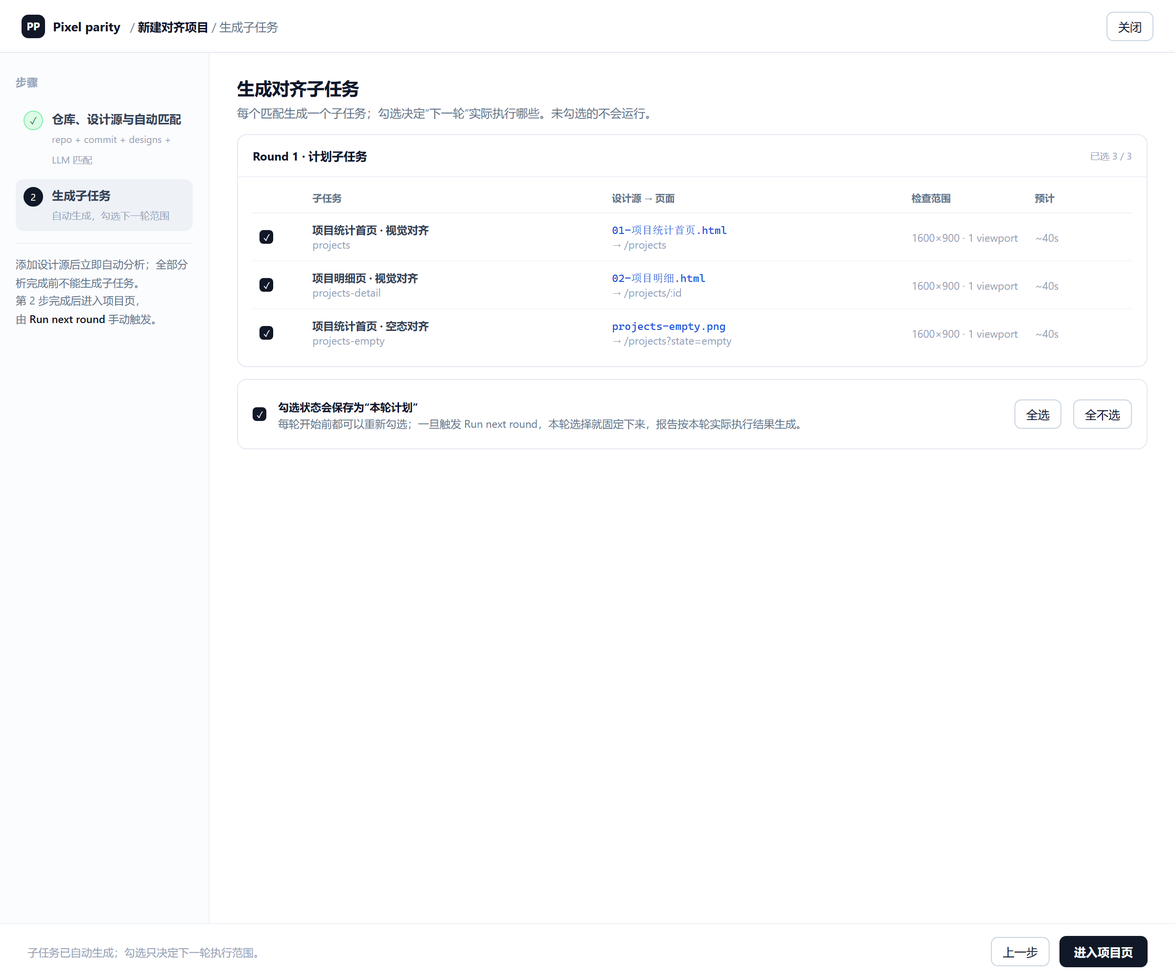
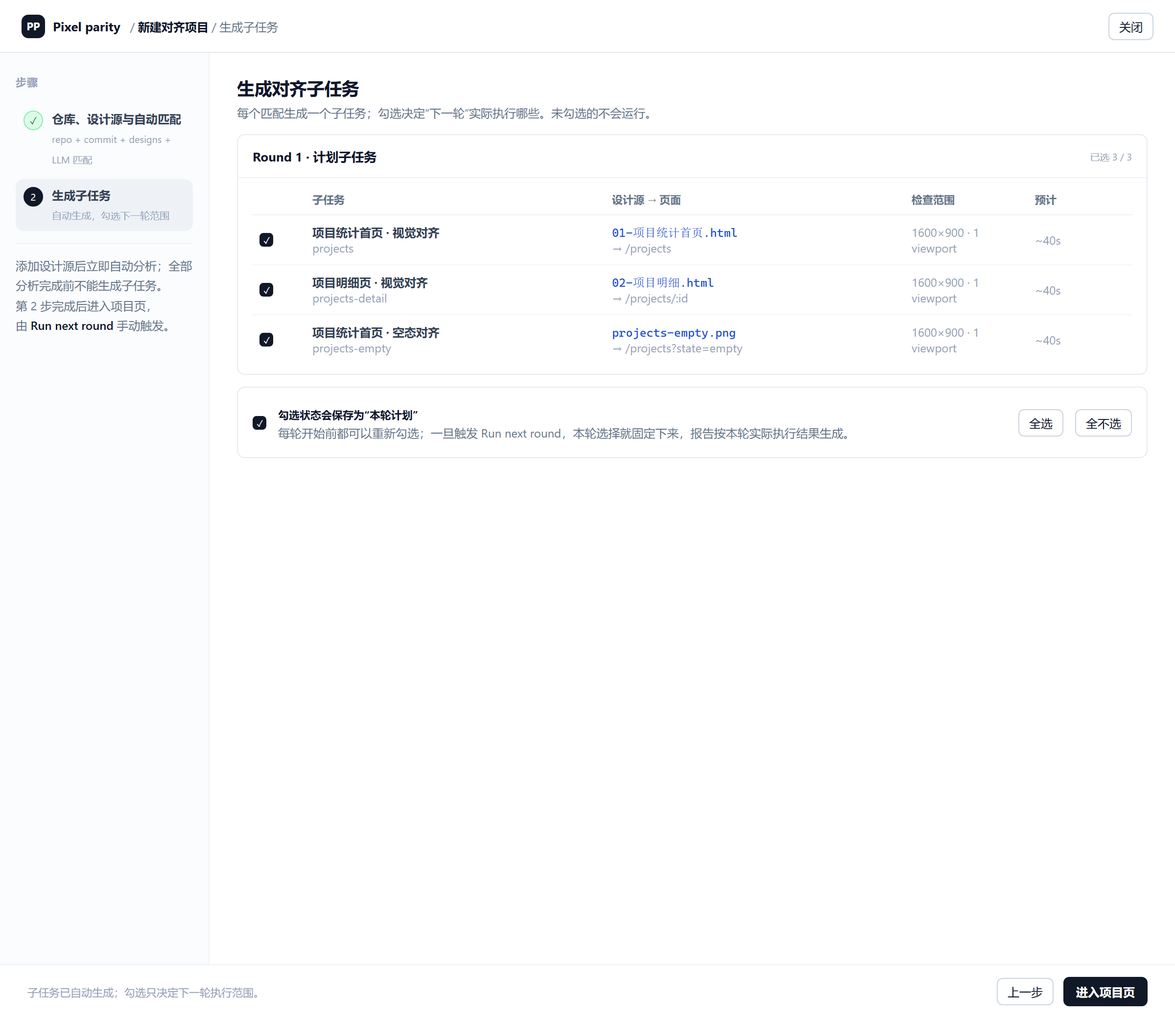
docs: fix report surface and align control metrics with DSH

diff --git a/docs/design/mockups/04-report.html b/docs/design/mockups/04-report.html
@@ -1,15 +1,15 @@
 <!doctype html><html><head><meta charset="utf-8"><style>
 * { box-sizing: border-box; }
 body { margin: 0; background: #eef2f7; color: #0f172a; font-family: Inter, "Segoe UI", "Microsoft YaHei", sans-serif; }
-.shell { width: 1200px; min-height: 1000px; background: #fff; display: flex; flex-direction: column; }
+.shell { width: 1200px; min-height: 1040px; background: #fff; display: flex; flex-direction: column; }
 .topbar { height: 54px; border-bottom: 1px solid #e5eaf1; display: flex; align-items: center; gap: 10px; padding: 0 22px; background: #fff; }
 .brand { display: flex; align-items: center; gap: 8px; font-weight: 650; font-size: 13px; color: #0f172a; }
 .mark { width: 24px; height: 24px; border-radius: 7px; background: #111827; color: #fff; display: grid; place-items: center; font-size: 11px; font-weight: 700; }
 .crumb { color: #64748b; font-size: 12px; }
 .crumb b { color: #0f172a; font-weight: 600; }
 .spacer { flex: 1; }
-.ghost { border: 1px solid #cbd5e1; background: #fff; color: #0f172a; border-radius: 7px; padding: 6px 11px; font-size: 12px; }
-.primary { border: 1px solid #111827; background: #111827; color: #fff; border-radius: 7px; padding: 7px 14px; font-size: 12px; font-weight: 600; }
+.ghost { border: 1px solid #cbd5e1; background: #fff; color: #0f172a; border-radius: 6px; padding: 5px 10px; font-size: 12px; }
+.primary { border: 1px solid #111827; background: #111827; color: #fff; border-radius: 6px; padding: 6px 12px; font-size: 12px; font-weight: 600; }
 .primary[disabled] { background: #e2e8f0; border-color: #e2e8f0; color: #94a3b8; }
 .body { display: flex; flex: 1; }
 .rail { width: 214px; border-right: 1px solid #eef2f7; padding: 22px 16px; background: #fbfcfe; }
@@ -24,11 +24,11 @@ body { margin: 0; background: #eef2f7; color: #0f172a; font-family: Inter, "Sego
 .main { flex: 1; padding: 24px 28px; overflow: hidden; }
 .h1 { margin: 0; font-size: 18px; letter-spacing: -.01em; color: #0f172a; }
 .sub { margin: 5px 0 0; color: #64748b; font-size: 12px; }
-.card { border: 1px solid #e5eaf1; border-radius: 10px; background: #fff; }
+.card { border: 1px solid #e5eaf1; border-radius: 8px; background: #fff; }
 .card-h { padding: 13px 15px; border-bottom: 1px solid #eef2f7; display: flex; align-items: center; gap: 8px; }
 .card-b { padding: 15px; }
 .label { font-size: 11px; color: #64748b; margin-bottom: 5px; display: block; }
-.field { height: 34px; border: 1px solid #dbe3ee; border-radius: 7px; display: flex; align-items: center; padding: 0 10px; font-size: 12px; color: #0f172a; background: #fff; }
+.field { height: 32px; border: 1px solid #dbe3ee; border-radius: 7px; display: flex; align-items: center; padding: 0 10px; font-size: 12px; color: #0f172a; background: #fff; }
 .field.mono { font-family: "Cascadia Code", Consolas, monospace; font-size: 11px; }
 .field .hint { margin-left: auto; color: #94a3b8; font-size: 10px; }
 .row { display: flex; gap: 12px; }
@@ -37,15 +37,15 @@ body { margin: 0; background: #eef2f7; color: #0f172a; font-family: Inter, "Sego
 .src .kind { width: 30px; height: 26px; border-radius: 6px; display: grid; place-items: center; font-size: 9px; font-weight: 700; }
 .kind.url { background: #eef2f7; color: #111827; }
 .kind.file { background: #f1f5f9; color: #334155; }
-.src div p { margin: 0; font-size: 11px; color: #1e293b; font-family: "Cascadia Code", Consolas, monospace; }
+.src div p { margin: 0; font-size: 12px; color: #1e293b; font-family: "Cascadia Code", Consolas, monospace; }
 .src div small { color: #94a3b8; font-size: 10px; }
 .x { margin-left: auto; color: #94a3b8; font-size: 14px; }
 .add { display: flex; gap: 8px; margin-top: 9px; }
 .addbtn { border: 1px dashed #c7d4e5; color: #111827; background: #fbfdff; border-radius: 7px; padding: 6px 10px; font-size: 11px; }
 .footer { border-top: 1px solid #eef2f7; padding: 12px 28px; display: flex; align-items: center; gap: 10px; background: #fff; }
 .footer .note { color: #94a3b8; font-size: 11px; }
-table { width: 100%; border-collapse: collapse; font-size: 11px; }
-th { text-align: left; color: #64748b; font-weight: 600; padding: 8px 8px; border-bottom: 1px solid #eef2f7; font-size: 10px; }
+table { width: 100%; border-collapse: collapse; font-size: 12px; }
+th { text-align: left; color: #64748b; font-weight: 600; padding: 8px 8px; border-bottom: 1px solid #eef2f7; font-size: 11px; }
 td { padding: 9px 8px; border-bottom: 1px solid #f4f7fb; vertical-align: middle; color: #334155; }
 tr:last-child td { border-bottom: none; }
 .pill { border-radius: 999px; padding: 2px 7px; font-size: 10px; font-weight: 600; display: inline-block; }
@@ -63,7 +63,7 @@ tr:last-child td { border-bottom: none; }
 .meta { display: flex; gap: 6px; flex-wrap: wrap; }
 .chip { border: 1px solid #e2e8f0; background: #f8fafc; color: #475569; border-radius: 999px; padding: 3px 9px; font-size: 10px; }
 .chip.blue { background: #eef2f7; border-color: #d6dde8; color: #111827; }
-.round { border: 1px solid #e5eaf1; border-radius: 10px; padding: 13px 14px; margin-bottom: 10px; background: #fff; }
+.round { border: 1px solid #e5eaf1; border-radius: 8px; padding: 13px 14px; margin-bottom: 10px; background: #fff; }
 .round.now { border-color: #111827; box-shadow: 0 0 0 3px #eef2f7; }
 .round-h { display: flex; align-items: center; gap: 8px; }
 .round-h b { font-size: 12px; color: #0f172a; }
@@ -75,7 +75,7 @@ tr:last-child td { border-bottom: none; }
 .split { display: flex; gap: 18px; }
 .col { flex: 1; }
 .big { font-size: 22px; font-weight: 700; letter-spacing: -.02em; color: #0f172a; }
-.kv { font-size: 11px; color: #64748b; line-height: 1.7; }
+.kv { font-size: 12px; color: #64748b; line-height: 1.7; }
 .kv b { color: #0f172a; font-weight: 600; }
 .empty { border: 1px dashed #d8e0ea; border-radius: 9px; padding: 16px; color: #94a3b8; font-size: 11px; text-align: center; }
 .hr { height: 1px; background: #eef2f7; margin: 12px 0; }
@@ -86,7 +86,7 @@ tr:last-child td { border-bottom: none; }
     <span class="crumb">/ anubis / 2026-11-23T12:54</span>
     <span class="spacer"></span><button class="ghost">Download</button><button class="ghost">关闭</button>
   </div>
-  <div class="main" style="padding:22px 30px;background:#0b0f14">
+  <div class="main" style="padding:22px 30px;background:#f7f8fa">
     <div style="display:flex;gap:24px;align-items:flex-start">
       <div style="flex:1">
         <h2 style="margin:0;font-size:16px">Round 1 对齐报告</h2>
@@ -99,20 +99,20 @@ tr:last-child td { border-bottom: none; }
     <div class="card" style="margin-top:14px"><div class="card-b" style="display:flex;gap:16px">
       <div class="thumb" style="width:160px;height:92px"></div>
       <div style="flex:1">
-        <div style="display:flex;gap:8px;align-items:center"><b style="font-size:12px">项目统计首页 · /projects</b><span class="pill bad">failed</span><span class="pill">9.26% pixels</span></div>
+        <div style="display:flex;gap:8px;align-items:center"><b style="font-size:13px">项目统计首页 · /projects</b><span class="pill bad">failed</span><span class="pill">9.26% pixels</span></div>
         <div class="kv" style="margin-top:5px">几何 pass · 样式 pass · 像素差异集中在“良率对比”条形图区域；表格列宽与原型存在偏差。</div>
         <div style="margin-top:8px;display:flex;gap:8px"><span class="chip">[structure] 良率对比条形图</span><span class="chip">[mock] 数据条数差异</span></div>
       </div>
       <button class="ghost" style="align-self:center">查看 diff</button>
     </div></div>
     <div class="card" style="margin-top:10px"><div class="card-b" style="display:flex;gap:16px">
-      <div class="thumb" style="width:160px;height:92px;background:linear-gradient(135deg,#162338,#1b2a44)"></div>
+      <div class="thumb" style="width:160px;height:92px;background:linear-gradient(135deg,#f8fafc 0 50%,#eef2f7 50% 100%)"></div>
       <div style="flex:1">
-        <div style="display:flex;gap:8px;align-items:center"><b style="font-size:12px">项目明细页 · /projects/:id</b><span class="pill ok">passed</span><span class="pill">0.00% pixels</span></div>
+        <div style="display:flex;gap:8px;align-items:center"><b style="font-size:13px">项目明细页 · /projects/:id</b><span class="pill ok">passed</span><span class="pill">0.00% pixels</span></div>
         <div class="kv" style="margin-top:5px">几何/样式/像素均通过，已可作为 baseline。</div>
       </div>
     </div></div>
-    <div class="card" style="margin-top:10px"><div class="card-h"><b style="font-size:12px">下一步</b></div><div class="card-b">
+    <div class="card" style="margin-top:10px"><div class="card-h"><b style="font-size:13px">下一步</b></div><div class="card-b">
       <div class="kv">1. 修复良率对比条形图的布局与数据条数；2. 重新勾选 Round 2 子任务；3. 手动触发 Run next round。</div>
     </div></div>
   </div>

diff --git a/docs/design/mockups/01-setup.html b/docs/design/mockups/01-setup.html
@@ -1,15 +1,15 @@
 <!doctype html><html><head><meta charset="utf-8"><style>
 * { box-sizing: border-box; }
 body { margin: 0; background: #eef2f7; color: #0f172a; font-family: Inter, "Segoe UI", "Microsoft YaHei", sans-serif; }
-.shell { width: 1200px; min-height: 1000px; background: #fff; display: flex; flex-direction: column; }
+.shell { width: 1200px; min-height: 1040px; background: #fff; display: flex; flex-direction: column; }
 .topbar { height: 54px; border-bottom: 1px solid #e5eaf1; display: flex; align-items: center; gap: 10px; padding: 0 22px; background: #fff; }
 .brand { display: flex; align-items: center; gap: 8px; font-weight: 650; font-size: 13px; color: #0f172a; }
 .mark { width: 24px; height: 24px; border-radius: 7px; background: #111827; color: #fff; display: grid; place-items: center; font-size: 11px; font-weight: 700; }
 .crumb { color: #64748b; font-size: 12px; }
 .crumb b { color: #0f172a; font-weight: 600; }
 .spacer { flex: 1; }
-.ghost { border: 1px solid #cbd5e1; background: #fff; color: #0f172a; border-radius: 7px; padding: 6px 11px; font-size: 12px; }
-.primary { border: 1px solid #111827; background: #111827; color: #fff; border-radius: 7px; padding: 7px 14px; font-size: 12px; font-weight: 600; }
+.ghost { border: 1px solid #cbd5e1; background: #fff; color: #0f172a; border-radius: 6px; padding: 5px 10px; font-size: 12px; }
+.primary { border: 1px solid #111827; background: #111827; color: #fff; border-radius: 6px; padding: 6px 12px; font-size: 12px; font-weight: 600; }
 .primary[disabled] { background: #e2e8f0; border-color: #e2e8f0; color: #94a3b8; }
 .body { display: flex; flex: 1; }
 .rail { width: 214px; border-right: 1px solid #eef2f7; padding: 22px 16px; background: #fbfcfe; }
@@ -24,11 +24,11 @@ body { margin: 0; background: #eef2f7; color: #0f172a; font-family: Inter, "Sego
 .main { flex: 1; padding: 24px 28px; overflow: hidden; }
 .h1 { margin: 0; font-size: 18px; letter-spacing: -.01em; color: #0f172a; }
 .sub { margin: 5px 0 0; color: #64748b; font-size: 12px; }
-.card { border: 1px solid #e5eaf1; border-radius: 10px; background: #fff; }
+.card { border: 1px solid #e5eaf1; border-radius: 8px; background: #fff; }
 .card-h { padding: 13px 15px; border-bottom: 1px solid #eef2f7; display: flex; align-items: center; gap: 8px; }
 .card-b { padding: 15px; }
 .label { font-size: 11px; color: #64748b; margin-bottom: 5px; display: block; }
-.field { height: 34px; border: 1px solid #dbe3ee; border-radius: 7px; display: flex; align-items: center; padding: 0 10px; font-size: 12px; color: #0f172a; background: #fff; }
+.field { height: 32px; border: 1px solid #dbe3ee; border-radius: 7px; display: flex; align-items: center; padding: 0 10px; font-size: 12px; color: #0f172a; background: #fff; }
 .field.mono { font-family: "Cascadia Code", Consolas, monospace; font-size: 11px; }
 .field .hint { margin-left: auto; color: #94a3b8; font-size: 10px; }
 .row { display: flex; gap: 12px; }
@@ -37,15 +37,15 @@ body { margin: 0; background: #eef2f7; color: #0f172a; font-family: Inter, "Sego
 .src .kind { width: 30px; height: 26px; border-radius: 6px; display: grid; place-items: center; font-size: 9px; font-weight: 700; }
 .kind.url { background: #eef2f7; color: #111827; }
 .kind.file { background: #f1f5f9; color: #334155; }
-.src div p { margin: 0; font-size: 11px; color: #1e293b; font-family: "Cascadia Code", Consolas, monospace; }
+.src div p { margin: 0; font-size: 12px; color: #1e293b; font-family: "Cascadia Code", Consolas, monospace; }
 .src div small { color: #94a3b8; font-size: 10px; }
 .x { margin-left: auto; color: #94a3b8; font-size: 14px; }
 .add { display: flex; gap: 8px; margin-top: 9px; }
 .addbtn { border: 1px dashed #c7d4e5; color: #111827; background: #fbfdff; border-radius: 7px; padding: 6px 10px; font-size: 11px; }
 .footer { border-top: 1px solid #eef2f7; padding: 12px 28px; display: flex; align-items: center; gap: 10px; background: #fff; }
 .footer .note { color: #94a3b8; font-size: 11px; }
-table { width: 100%; border-collapse: collapse; font-size: 11px; }
-th { text-align: left; color: #64748b; font-weight: 600; padding: 8px 8px; border-bottom: 1px solid #eef2f7; font-size: 10px; }
+table { width: 100%; border-collapse: collapse; font-size: 12px; }
+th { text-align: left; color: #64748b; font-weight: 600; padding: 8px 8px; border-bottom: 1px solid #eef2f7; font-size: 11px; }
 td { padding: 9px 8px; border-bottom: 1px solid #f4f7fb; vertical-align: middle; color: #334155; }
 tr:last-child td { border-bottom: none; }
 .pill { border-radius: 999px; padding: 2px 7px; font-size: 10px; font-weight: 600; display: inline-block; }
@@ -63,7 +63,7 @@ tr:last-child td { border-bottom: none; }
 .meta { display: flex; gap: 6px; flex-wrap: wrap; }
 .chip { border: 1px solid #e2e8f0; background: #f8fafc; color: #475569; border-radius: 999px; padding: 3px 9px; font-size: 10px; }
 .chip.blue { background: #eef2f7; border-color: #d6dde8; color: #111827; }
-.round { border: 1px solid #e5eaf1; border-radius: 10px; padding: 13px 14px; margin-bottom: 10px; background: #fff; }
+.round { border: 1px solid #e5eaf1; border-radius: 8px; padding: 13px 14px; margin-bottom: 10px; background: #fff; }
 .round.now { border-color: #111827; box-shadow: 0 0 0 3px #eef2f7; }
 .round-h { display: flex; align-items: center; gap: 8px; }
 .round-h b { font-size: 12px; color: #0f172a; }
@@ -75,7 +75,7 @@ tr:last-child td { border-bottom: none; }
 .split { display: flex; gap: 18px; }
 .col { flex: 1; }
 .big { font-size: 22px; font-weight: 700; letter-spacing: -.02em; color: #0f172a; }
-.kv { font-size: 11px; color: #64748b; line-height: 1.7; }
+.kv { font-size: 12px; color: #64748b; line-height: 1.7; }
 .kv b { color: #0f172a; font-weight: 600; }
 .empty { border: 1px dashed #d8e0ea; border-radius: 9px; padding: 16px; color: #94a3b8; font-size: 11px; text-align: center; }
 .hr { height: 1px; background: #eef2f7; margin: 12px 0; }
@@ -99,7 +99,7 @@ tr:last-child td { border-bottom: none; }
 <h1 class="h1">新建对齐项目</h1>
 <p class="sub">指定仓库与基准 commit，再加入要对照的设计图或原型页面。</p>
 <div class="card" style="margin-top:16px">
-  <div class="card-h"><b style="font-size:12px">1 · 仓库</b><span class="mut" style="font-size:10px">对齐将以这个 commit 为基准，后续不会被工作区改动影响</span></div>
+  <div class="card-h"><b style="font-size:13px">1 · 仓库</b><span class="mut" style="font-size:10px">对齐将以这个 commit 为基准，后续不会被工作区改动影响</span></div>
   <div class="card-b">
     <div class="row">
       <div class="grow"><span class="label">仓库路径</span><div class="field mono">D:\work\anubis <span class="hint">git ✓</span></div></div>
@@ -109,7 +109,7 @@ tr:last-child td { border-bottom: none; }
   </div>
 </div>
 <div class="card" style="margin-top:12px">
-  <div class="card-h"><b style="font-size:12px">2 · 设计源</b><span class="mut" style="font-size:10px">支持 URL、本地图片或本地 HTML</span></div>
+  <div class="card-h"><b style="font-size:13px">2 · 设计源</b><span class="mut" style="font-size:10px">支持 URL、本地图片或本地 HTML</span></div>
   <div class="card-b">
     <div class="src"><span class="kind url">URL</span><div><p>https://liumeitong66.github.io/SPC/01-项目统计首页.html</p><small>原型 · 1600×900</small></div><span class="pill ok">已匹配</span><span class="x">×</span></div>
     <div class="src"><span class="kind url">URL</span><div><p>https://liumeitong66.github.io/SPC/02-项目明细.html</p><small>原型 · 1600×900</small></div><span class="pill ok">已匹配</span><span class="x">×</span></div>
@@ -120,7 +120,7 @@ tr:last-child td { border-bottom: none; }
   </div>
 </div>
 <div class="card" style="margin-top:12px">
-  <div class="card-h"><b style="font-size:12px">3 · 自动分析与匹配</b><span class="pill warn">2/3 分析完成</span><span class="spacer"></span><span class="mut" style="font-size:10px">全部完成后才能进入下一步</span></div>
+  <div class="card-h"><b style="font-size:13px">3 · 自动分析与匹配</b><span class="pill warn">2/3 分析完成</span><span class="spacer"></span><span class="mut" style="font-size:10px">全部完成后才能进入下一步</span></div>
   <div class="card-b" style="padding:4px 14px 10px">
     <table>
       <tr><th style="width:34%">设计源</th><th>候选页面</th><th style="width:14%">置信度</th><th style="width:16%">状态</th></tr>

diff --git a/docs/design/mockups/03-dashboard.html b/docs/design/mockups/03-dashboard.html
@@ -1,15 +1,15 @@
 <!doctype html><html><head><meta charset="utf-8"><style>
 * { box-sizing: border-box; }
 body { margin: 0; background: #eef2f7; color: #0f172a; font-family: Inter, "Segoe UI", "Microsoft YaHei", sans-serif; }
-.shell { width: 1200px; min-height: 1000px; background: #fff; display: flex; flex-direction: column; }
+.shell { width: 1200px; min-height: 1040px; background: #fff; display: flex; flex-direction: column; }
 .topbar { height: 54px; border-bottom: 1px solid #e5eaf1; display: flex; align-items: center; gap: 10px; padding: 0 22px; background: #fff; }
 .brand { display: flex; align-items: center; gap: 8px; font-weight: 650; font-size: 13px; color: #0f172a; }
 .mark { width: 24px; height: 24px; border-radius: 7px; background: #111827; color: #fff; display: grid; place-items: center; font-size: 11px; font-weight: 700; }
 .crumb { color: #64748b; font-size: 12px; }
 .crumb b { color: #0f172a; font-weight: 600; }
 .spacer { flex: 1; }
-.ghost { border: 1px solid #cbd5e1; background: #fff; color: #0f172a; border-radius: 7px; padding: 6px 11px; font-size: 12px; }
-.primary { border: 1px solid #111827; background: #111827; color: #fff; border-radius: 7px; padding: 7px 14px; font-size: 12px; font-weight: 600; }
+.ghost { border: 1px solid #cbd5e1; background: #fff; color: #0f172a; border-radius: 6px; padding: 5px 10px; font-size: 12px; }
+.primary { border: 1px solid #111827; background: #111827; color: #fff; border-radius: 6px; padding: 6px 12px; font-size: 12px; font-weight: 600; }
 .primary[disabled] { background: #e2e8f0; border-color: #e2e8f0; color: #94a3b8; }
 .body { display: flex; flex: 1; }
 .rail { width: 214px; border-right: 1px solid #eef2f7; padding: 22px 16px; background: #fbfcfe; }
@@ -24,11 +24,11 @@ body { margin: 0; background: #eef2f7; color: #0f172a; font-family: Inter, "Sego
 .main { flex: 1; padding: 24px 28px; overflow: hidden; }
 .h1 { margin: 0; font-size: 18px; letter-spacing: -.01em; color: #0f172a; }
 .sub { margin: 5px 0 0; color: #64748b; font-size: 12px; }
-.card { border: 1px solid #e5eaf1; border-radius: 10px; background: #fff; }
+.card { border: 1px solid #e5eaf1; border-radius: 8px; background: #fff; }
 .card-h { padding: 13px 15px; border-bottom: 1px solid #eef2f7; display: flex; align-items: center; gap: 8px; }
 .card-b { padding: 15px; }
 .label { font-size: 11px; color: #64748b; margin-bottom: 5px; display: block; }
-.field { height: 34px; border: 1px solid #dbe3ee; border-radius: 7px; display: flex; align-items: center; padding: 0 10px; font-size: 12px; color: #0f172a; background: #fff; }
+.field { height: 32px; border: 1px solid #dbe3ee; border-radius: 7px; display: flex; align-items: center; padding: 0 10px; font-size: 12px; color: #0f172a; background: #fff; }
 .field.mono { font-family: "Cascadia Code", Consolas, monospace; font-size: 11px; }
 .field .hint { margin-left: auto; color: #94a3b8; font-size: 10px; }
 .row { display: flex; gap: 12px; }
@@ -37,15 +37,15 @@ body { margin: 0; background: #eef2f7; color: #0f172a; font-family: Inter, "Sego
 .src .kind { width: 30px; height: 26px; border-radius: 6px; display: grid; place-items: center; font-size: 9px; font-weight: 700; }
 .kind.url { background: #eef2f7; color: #111827; }
 .kind.file { background: #f1f5f9; color: #334155; }
-.src div p { margin: 0; font-size: 11px; color: #1e293b; font-family: "Cascadia Code", Consolas, monospace; }
+.src div p { margin: 0; font-size: 12px; color: #1e293b; font-family: "Cascadia Code", Consolas, monospace; }
 .src div small { color: #94a3b8; font-size: 10px; }
 .x { margin-left: auto; color: #94a3b8; font-size: 14px; }
 .add { display: flex; gap: 8px; margin-top: 9px; }
 .addbtn { border: 1px dashed #c7d4e5; color: #111827; background: #fbfdff; border-radius: 7px; padding: 6px 10px; font-size: 11px; }
 .footer { border-top: 1px solid #eef2f7; padding: 12px 28px; display: flex; align-items: center; gap: 10px; background: #fff; }
 .footer .note { color: #94a3b8; font-size: 11px; }
-table { width: 100%; border-collapse: collapse; font-size: 11px; }
-th { text-align: left; color: #64748b; font-weight: 600; padding: 8px 8px; border-bottom: 1px solid #eef2f7; font-size: 10px; }
+table { width: 100%; border-collapse: collapse; font-size: 12px; }
+th { text-align: left; color: #64748b; font-weight: 600; padding: 8px 8px; border-bottom: 1px solid #eef2f7; font-size: 11px; }
 td { padding: 9px 8px; border-bottom: 1px solid #f4f7fb; vertical-align: middle; color: #334155; }
 tr:last-child td { border-bottom: none; }
 .pill { border-radius: 999px; padding: 2px 7px; font-size: 10px; font-weight: 600; display: inline-block; }
@@ -63,7 +63,7 @@ tr:last-child td { border-bottom: none; }
 .meta { display: flex; gap: 6px; flex-wrap: wrap; }
 .chip { border: 1px solid #e2e8f0; background: #f8fafc; color: #475569; border-radius: 999px; padding: 3px 9px; font-size: 10px; }
 .chip.blue { background: #eef2f7; border-color: #d6dde8; color: #111827; }
-.round { border: 1px solid #e5eaf1; border-radius: 10px; padding: 13px 14px; margin-bottom: 10px; background: #fff; }
+.round { border: 1px solid #e5eaf1; border-radius: 8px; padding: 13px 14px; margin-bottom: 10px; background: #fff; }
 .round.now { border-color: #111827; box-shadow: 0 0 0 3px #eef2f7; }
 .round-h { display: flex; align-items: center; gap: 8px; }
 .round-h b { font-size: 12px; color: #0f172a; }
@@ -75,7 +75,7 @@ tr:last-child td { border-bottom: none; }
 .split { display: flex; gap: 18px; }
 .col { flex: 1; }
 .big { font-size: 22px; font-weight: 700; letter-spacing: -.02em; color: #0f172a; }
-.kv { font-size: 11px; color: #64748b; line-height: 1.7; }
+.kv { font-size: 12px; color: #64748b; line-height: 1.7; }
 .kv b { color: #0f172a; font-weight: 600; }
 .empty { border: 1px dashed #d8e0ea; border-radius: 9px; padding: 16px; color: #94a3b8; font-size: 11px; text-align: center; }
 .hr { height: 1px; background: #eef2f7; margin: 12px 0; }
@@ -101,7 +101,7 @@ tr:last-child td { border-bottom: none; }
     <div class="hr"></div>
     <div class="split">
       <div style="flex:1.35">
-        <div style="display:flex;align-items:center;gap:8px;margin-bottom:8px"><b style="font-size:12px">轮次</b><span class="mut" style="font-size:10px">每轮由你手动触发，不会自动执行</span></div>
+        <div style="display:flex;align-items:center;gap:8px;margin-bottom:8px"><b style="font-size:13px">轮次</b><span class="mut" style="font-size:10px">每轮由你手动触发，不会自动执行</span></div>
         <div class="round">
           <div class="round-h"><b>Round 1</b><span class="pill ok">done</span><span class="timeline">2026-11-23 12:54 · 3/3 子任务</span><span class="spacer"></span><button class="ghost" style="padding:4px 8px">Report</button></div>
           <div class="kv" style="margin-top:6px">2 failed · 1 passed · 9.26% pixels · 几何/样式 pass</div>
@@ -114,7 +114,7 @@ tr:last-child td { border-bottom: none; }
         <div class="round" style="opacity:.55"><div class="round-h"><b>Round 3</b><span class="timeline">after Round 2</span></div></div>
       </div>
       <div class="col">
-        <div style="display:flex;align-items:center;gap:8px;margin-bottom:8px"><b style="font-size:12px">Round 2 子任务</b><span class="mut" style="font-size:10px">触发前可调整</span></div>
+        <div style="display:flex;align-items:center;gap:8px;margin-bottom:8px"><b style="font-size:13px">Round 2 子任务</b><span class="mut" style="font-size:10px">触发前可调整</span></div>
         <div class="card"><div class="card-b" style="padding:4px 12px 10px">
           <table>
             <tr><td style="width:8%"><span class="chk"></span></td><td><b>项目统计首页</b><div class="route">/projects</div></td><td class="mut" style="text-align:right">~40s</td></tr>

diff --git a/docs/design/mockups/02-subtasks.html b/docs/design/mockups/02-subtasks.html
@@ -1,15 +1,15 @@
 <!doctype html><html><head><meta charset="utf-8"><style>
 * { box-sizing: border-box; }
 body { margin: 0; background: #eef2f7; color: #0f172a; font-family: Inter, "Segoe UI", "Microsoft YaHei", sans-serif; }
-.shell { width: 1200px; min-height: 1000px; background: #fff; display: flex; flex-direction: column; }
+.shell { width: 1200px; min-height: 1040px; background: #fff; display: flex; flex-direction: column; }
 .topbar { height: 54px; border-bottom: 1px solid #e5eaf1; display: flex; align-items: center; gap: 10px; padding: 0 22px; background: #fff; }
 .brand { display: flex; align-items: center; gap: 8px; font-weight: 650; font-size: 13px; color: #0f172a; }
 .mark { width: 24px; height: 24px; border-radius: 7px; background: #111827; color: #fff; display: grid; place-items: center; font-size: 11px; font-weight: 700; }
 .crumb { color: #64748b; font-size: 12px; }
 .crumb b { color: #0f172a; font-weight: 600; }
 .spacer { flex: 1; }
-.ghost { border: 1px solid #cbd5e1; background: #fff; color: #0f172a; border-radius: 7px; padding: 6px 11px; font-size: 12px; }
-.primary { border: 1px solid #111827; background: #111827; color: #fff; border-radius: 7px; padding: 7px 14px; font-size: 12px; font-weight: 600; }
+.ghost { border: 1px solid #cbd5e1; background: #fff; color: #0f172a; border-radius: 6px; padding: 5px 10px; font-size: 12px; }
+.primary { border: 1px solid #111827; background: #111827; color: #fff; border-radius: 6px; padding: 6px 12px; font-size: 12px; font-weight: 600; }
 .primary[disabled] { background: #e2e8f0; border-color: #e2e8f0; color: #94a3b8; }
 .body { display: flex; flex: 1; }
 .rail { width: 214px; border-right: 1px solid #eef2f7; padding: 22px 16px; background: #fbfcfe; }
@@ -24,11 +24,11 @@ body { margin: 0; background: #eef2f7; color: #0f172a; font-family: Inter, "Sego
 .main { flex: 1; padding: 24px 28px; overflow: hidden; }
 .h1 { margin: 0; font-size: 18px; letter-spacing: -.01em; color: #0f172a; }
 .sub { margin: 5px 0 0; color: #64748b; font-size: 12px; }
-.card { border: 1px solid #e5eaf1; border-radius: 10px; background: #fff; }
+.card { border: 1px solid #e5eaf1; border-radius: 8px; background: #fff; }
 .card-h { padding: 13px 15px; border-bottom: 1px solid #eef2f7; display: flex; align-items: center; gap: 8px; }
 .card-b { padding: 15px; }
 .label { font-size: 11px; color: #64748b; margin-bottom: 5px; display: block; }
-.field { height: 34px; border: 1px solid #dbe3ee; border-radius: 7px; display: flex; align-items: center; padding: 0 10px; font-size: 12px; color: #0f172a; background: #fff; }
+.field { height: 32px; border: 1px solid #dbe3ee; border-radius: 7px; display: flex; align-items: center; padding: 0 10px; font-size: 12px; color: #0f172a; background: #fff; }
 .field.mono { font-family: "Cascadia Code", Consolas, monospace; font-size: 11px; }
 .field .hint { margin-left: auto; color: #94a3b8; font-size: 10px; }
 .row { display: flex; gap: 12px; }
@@ -37,15 +37,15 @@ body { margin: 0; background: #eef2f7; color: #0f172a; font-family: Inter, "Sego
 .src .kind { width: 30px; height: 26px; border-radius: 6px; display: grid; place-items: center; font-size: 9px; font-weight: 700; }
 .kind.url { background: #eef2f7; color: #111827; }
 .kind.file { background: #f1f5f9; color: #334155; }
-.src div p { margin: 0; font-size: 11px; color: #1e293b; font-family: "Cascadia Code", Consolas, monospace; }
+.src div p { margin: 0; font-size: 12px; color: #1e293b; font-family: "Cascadia Code", Consolas, monospace; }
 .src div small { color: #94a3b8; font-size: 10px; }
 .x { margin-left: auto; color: #94a3b8; font-size: 14px; }
 .add { display: flex; gap: 8px; margin-top: 9px; }
 .addbtn { border: 1px dashed #c7d4e5; color: #111827; background: #fbfdff; border-radius: 7px; padding: 6px 10px; font-size: 11px; }
 .footer { border-top: 1px solid #eef2f7; padding: 12px 28px; display: flex; align-items: center; gap: 10px; background: #fff; }
 .footer .note { color: #94a3b8; font-size: 11px; }
-table { width: 100%; border-collapse: collapse; font-size: 11px; }
-th { text-align: left; color: #64748b; font-weight: 600; padding: 8px 8px; border-bottom: 1px solid #eef2f7; font-size: 10px; }
+table { width: 100%; border-collapse: collapse; font-size: 12px; }
+th { text-align: left; color: #64748b; font-weight: 600; padding: 8px 8px; border-bottom: 1px solid #eef2f7; font-size: 11px; }
 td { padding: 9px 8px; border-bottom: 1px solid #f4f7fb; vertical-align: middle; color: #334155; }
 tr:last-child td { border-bottom: none; }
 .pill { border-radius: 999px; padding: 2px 7px; font-size: 10px; font-weight: 600; display: inline-block; }
@@ -63,7 +63,7 @@ tr:last-child td { border-bottom: none; }
 .meta { display: flex; gap: 6px; flex-wrap: wrap; }
 .chip { border: 1px solid #e2e8f0; background: #f8fafc; color: #475569; border-radius: 999px; padding: 3px 9px; font-size: 10px; }
 .chip.blue { background: #eef2f7; border-color: #d6dde8; color: #111827; }
-.round { border: 1px solid #e5eaf1; border-radius: 10px; padding: 13px 14px; margin-bottom: 10px; background: #fff; }
+.round { border: 1px solid #e5eaf1; border-radius: 8px; padding: 13px 14px; margin-bottom: 10px; background: #fff; }
 .round.now { border-color: #111827; box-shadow: 0 0 0 3px #eef2f7; }
 .round-h { display: flex; align-items: center; gap: 8px; }
 .round-h b { font-size: 12px; color: #0f172a; }
@@ -75,7 +75,7 @@ tr:last-child td { border-bottom: none; }
 .split { display: flex; gap: 18px; }
 .col { flex: 1; }
 .big { font-size: 22px; font-weight: 700; letter-spacing: -.02em; color: #0f172a; }
-.kv { font-size: 11px; color: #64748b; line-height: 1.7; }
+.kv { font-size: 12px; color: #64748b; line-height: 1.7; }
 .kv b { color: #0f172a; font-weight: 600; }
 .empty { border: 1px dashed #d8e0ea; border-radius: 9px; padding: 16px; color: #94a3b8; font-size: 11px; text-align: center; }
 .hr { height: 1px; background: #eef2f7; margin: 12px 0; }
@@ -99,7 +99,7 @@ tr:last-child td { border-bottom: none; }
 <h1 class="h1">生成对齐子任务</h1>
 <p class="sub">每个匹配生成一个子任务；勾选决定“下一轮”实际执行哪些。未勾选的不会运行。</p>
 <div class="card" style="margin-top:14px">
-  <div class="card-h"><b style="font-size:12px">Round 1 · 计划子任务</b><span class="spacer"></span><span class="mut" style="font-size:10px">已选 3 / 3</span></div>
+  <div class="card-h"><b style="font-size:13px">Round 1 · 计划子任务</b><span class="spacer"></span><span class="mut" style="font-size:10px">已选 3 / 3</span></div>
   <div class="card-b" style="padding:6px 14px 10px">
     <table>
       <tr><th style="width:6%"></th><th style="width:34%">子任务</th><th>设计源 → 页面</th><th style="width:14%">检查范围</th><th style="width:12%">预计</th></tr>

diff --git a/docs/design/project-flow.zh-CN.html b/docs/design/project-flow.zh-CN.html
@@ -129,7 +129,7 @@ a { color: var(--link); }
 <p>页面背景和卡片保持白/浅灰，<strong>按钮、图标、进度条、选中态使用近黑色</strong>，形成“白底黑控件”的 DSH 风格，而不是整体暗色主题。</p>
 <div class="table-wrap"><table><thead><tr><th>Token</th><th>值</th><th>用途</th></tr></thead><tbody><tr><td><code>--pp-bg</code></td><td><code>#eef2f7</code></td><td>应用背景</td></tr><tr><td><code>--pp-surface</code></td><td><code>#ffffff</code></td><td>页面/抽屉底色</td></tr><tr><td><code>--pp-subtle</code></td><td><code>#fbfcfe</code></td><td>侧栏、弱底色</td></tr><tr><td><code>--pp-border</code></td><td><code>#e5eaf1</code></td><td>卡片/分隔线</td></tr><tr><td><code>--pp-border-weak</code></td><td><code>#eef2f7</code></td><td>行分隔、底栏</td></tr><tr><td><code>--pp-text</code></td><td><code>#0f172a</code></td><td>主文本</td></tr><tr><td><code>--pp-muted</code></td><td><code>#64748b</code></td><td>次要文本</td></tr><tr><td><code>--pp-faint</code></td><td><code>#94a3b8</code></td><td>占位/时间戳</td></tr><tr><td><code>--pp-control</code></td><td><code>#111827</code></td><td>主按钮、图标、进度、选中</td></tr><tr><td><code>--pp-control-text</code></td><td><code>#ffffff</code></td><td>深色控件上的文字</td></tr><tr><td><code>--pp-link</code></td><td><code>#1d4ed8</code></td><td>route/链接</td></tr><tr><td><code>--pp-success</code></td><td><code>#15803d</code> / bg <code>#e8f8ef</code></td><td>已匹配/通过</td></tr><tr><td><code>--pp-warning</code></td><td><code>#b45309</code> / bg <code>#fff7e6</code></td><td>分析中/待复核</td></tr><tr><td><code>--pp-danger</code></td><td><code>#b91c1c</code> / bg <code>#fdecec</code></td><td>失败</td></tr></tbody></table></div>
 <p>细节：</p>
-<ul><li>主按钮（Run next round / 生成子任务）为 <code>#111827</code> 实心白字；次按钮白底、深色描边与深色文字；</li><li>图标（刷新、关闭、诊断、添加）统一深色描边，不使用彩色图标；</li><li>进度条、checkbox、选中的步骤圆点使用近黑色；链接/route 用深蓝；</li><li>禁用态降为 <code>#e2e8f0</code> 背景 + <code>#94a3b8</code> 文本，footer 同时给出“等待 N 个源分析完成”的原因；</li><li>状态 pill 用浅色底 + 深色文字，保持白底页面的轻盈感；</li><li>与 DSH 的字体/圆角/8px 间距栅格保持一致。</li></ul>
+<ul><li>主按钮（Run next round / 生成子任务）为 <code>#111827</code> 实心白字；次按钮白底、深色描边与深色文字；</li><li>图标（刷新、关闭、诊断、添加）统一深色描边，不使用彩色图标；</li><li>进度条、checkbox、选中的步骤圆点使用近黑色；链接/route 用深蓝；</li><li>禁用态降为 <code>#e2e8f0</code> 背景 + <code>#94a3b8</code> 文本，footer 同时给出“等待 N 个源分析完成”的原因；</li><li>状态 pill 用浅色底 + 深色文字，保持白底页面的轻盈感；</li><li>字号：正文 13px、辅助 12px、标签 11px；H1 18px，卡片标题 13px；表格 12px。</li><li>控件：按钮高约 30px（padding 5–6px × 10–12px），输入框 32px，圆角 6px；卡片圆角 8px。</li><li>表格行高 1.5，图片/缩略图圆角 5–6px，整体使用 DSH 的 8px 间距栅格。</li></ul>
 <h2 id="4-数据模型与文件布局">4. 数据模型与文件布局</h2>
 <pre><code data-lang="">data/projects/&lt;projectId&gt;/
   project.json          # repo, baseCommit, sources, matches, subtasks, rounds
